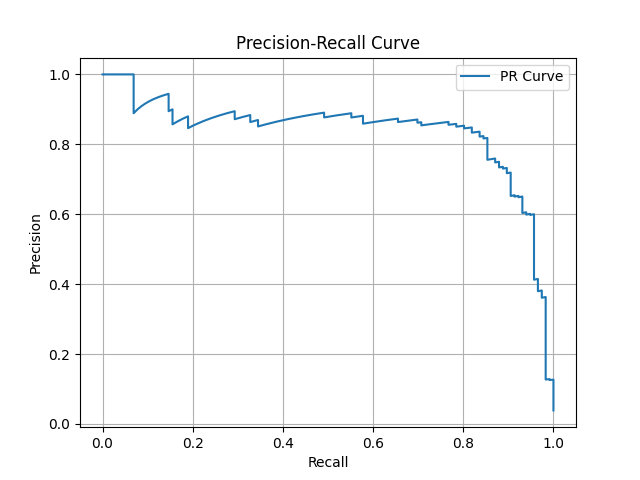
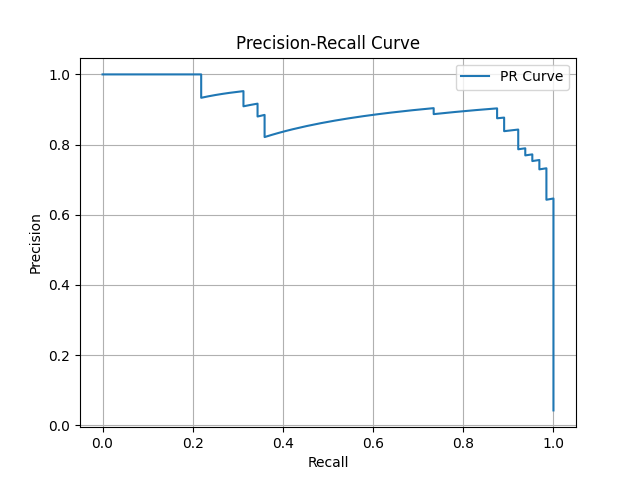
chnages added

diff --git a/net3.py b/net3.py
@@ -8,7 +8,6 @@ class ModelBuilder:
 
     def build(self):
         matrix_input = Input(shape=(self.height, self.width, 1))
-        x = layers.Masking(mask_value= 0)(matrix_input)
         x = layers.Conv2D(3, kernel_size=(2, 2), activation='relu')(matrix_input)
         x = layers.MaxPooling2D(pool_size=(2, 2))(x)
         x = layers.Conv2D(5, kernel_size=(2, 2), activation='relu')(x)

diff --git a/utilities.py b/utilities.py
@@ -53,7 +53,7 @@ def createImages(columns, data, sim_indivduals):
 
 
     if individuals < sim_indivduals:
-        pad = np.full((data.shape[0], sim_indivduals - individuals), -1) 
+        pad = np.full((data.shape[0], sim_indivduals - individuals), 0) 
         data = np.concatenate((data, pad), axis=1)
         logger.info(f"Padded to shape: {data.shape}")
 
